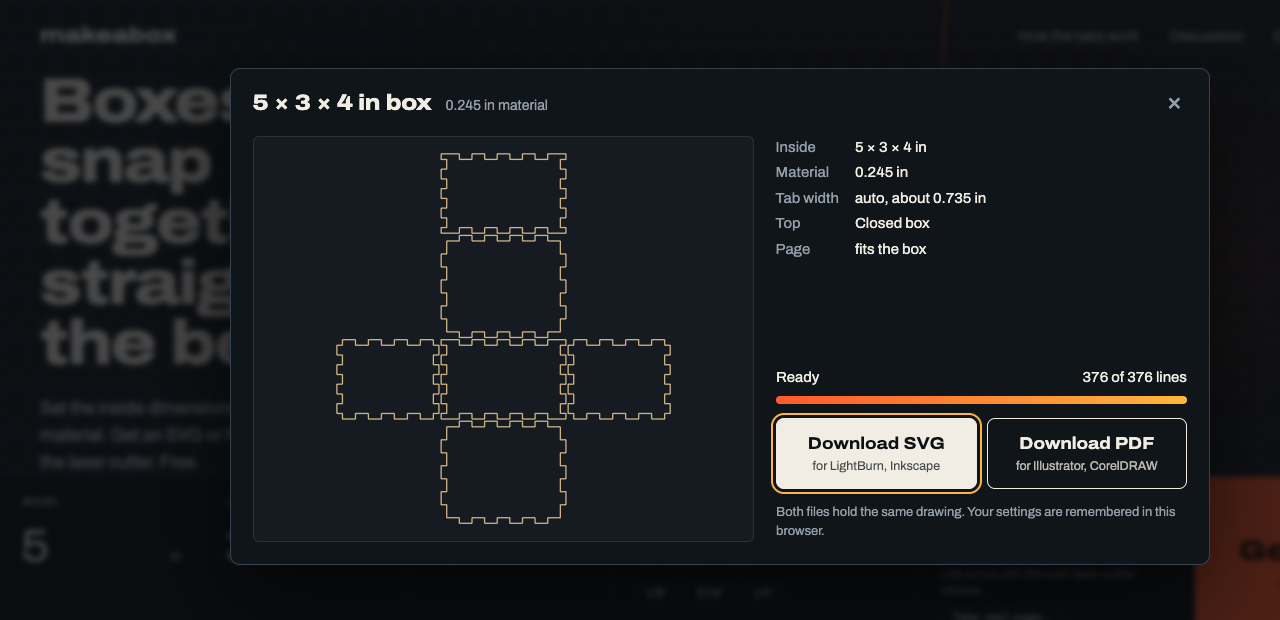
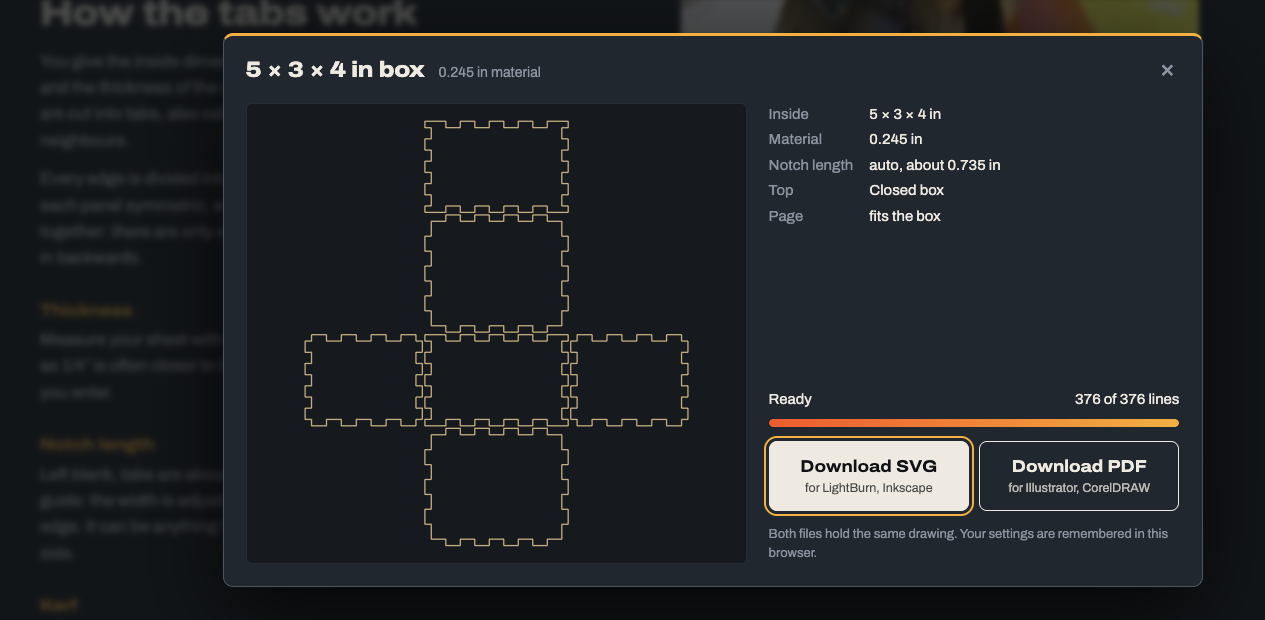
Lift the dialogs off the dark page
The sheets were nearly the same black as the dimmed page behind them. They are now slate with a lighter border and an amber top edge; inputs sit in a darker well.

diff --git a/app/assets/stylesheets/dialogs.css b/app/assets/stylesheets/dialogs.css
@@ -1,7 +1,7 @@
 /* The "More settings" sheet and the Generate dialog. */
 .sheet {
-  background: var(--sheet); color: var(--ink); border: 1px solid var(--edge); border-radius: 10px; padding: 0;
-  width: min(580px, 94vw); box-shadow: 0 30px 90px rgba(0, 0, 0, 0.6);
+  background: var(--sheet); color: var(--ink); border: 1px solid var(--sheet-edge); border-top: 3px solid var(--amber); border-radius: 10px; padding: 0;
+  width: min(580px, 94vw); box-shadow: 0 30px 90px rgba(0, 0, 0, 0.75);
 }
 .sheet::backdrop { background: rgba(8, 10, 13, 0.72); backdrop-filter: blur(3px); }
 .sheet-head { display: flex; align-items: baseline; gap: 14px; padding: 18px 22px 0; }
@@ -11,9 +11,9 @@
 .sheet .x:hover { color: var(--ink); }
 
 .grid2 { display: grid; grid-template-columns: 1fr 1fr; gap: 14px 18px; padding: 18px 22px 8px; }
-.grid2 label { display: grid; gap: 3px; font-size: 13px; color: var(--mute); align-content: start; }
-.grid2 input, .grid2 select { background: #0a0e12; border: 1px solid var(--edge); border-radius: 6px; padding: 8px 10px; font-size: 17px; color: var(--ink); min-width: 0; width: 100%; }
-.grid2 small { color: #6f7c88; line-height: 1.35; }
+.grid2 label { display: grid; gap: 3px; font-size: 13px; color: var(--soft); align-content: start; }
+.grid2 input, .grid2 select { background: var(--well); border: 1px solid var(--sheet-edge); border-radius: 6px; padding: 8px 10px; font-size: 17px; color: var(--ink); min-width: 0; width: 100%; }
+.grid2 small { color: var(--mute); line-height: 1.35; }
 .sheet-foot { display: flex; justify-content: space-between; align-items: center; padding: 12px 22px 20px; }
 .sheet-foot .link { background: none; border: 0; padding: 0; color: var(--mute); text-decoration: underline; text-underline-offset: 0.18em; cursor: pointer; font-size: 14px; }
 .sheet-foot .link:hover { color: var(--ink); }

diff --git a/app/assets/stylesheets/tokens.css b/app/assets/stylesheets/tokens.css
@@ -11,7 +11,9 @@
   --bed: #151b21;      /* the honeycomb bed */
   --cell: #222b33;
   --panel: #0d1115;    /* the machine's control panel */
-  --sheet: #10151a;    /* dialogs */
+  --sheet: #222c36;    /* dialogs: lighter than the bed, so they stand off it */
+  --sheet-edge: #52616f;
+  --well: #141a20;     /* inputs inside a dialog */
   --rule: #28323b;
   --edge: #36424d;
   --ink: #f1ede4;
